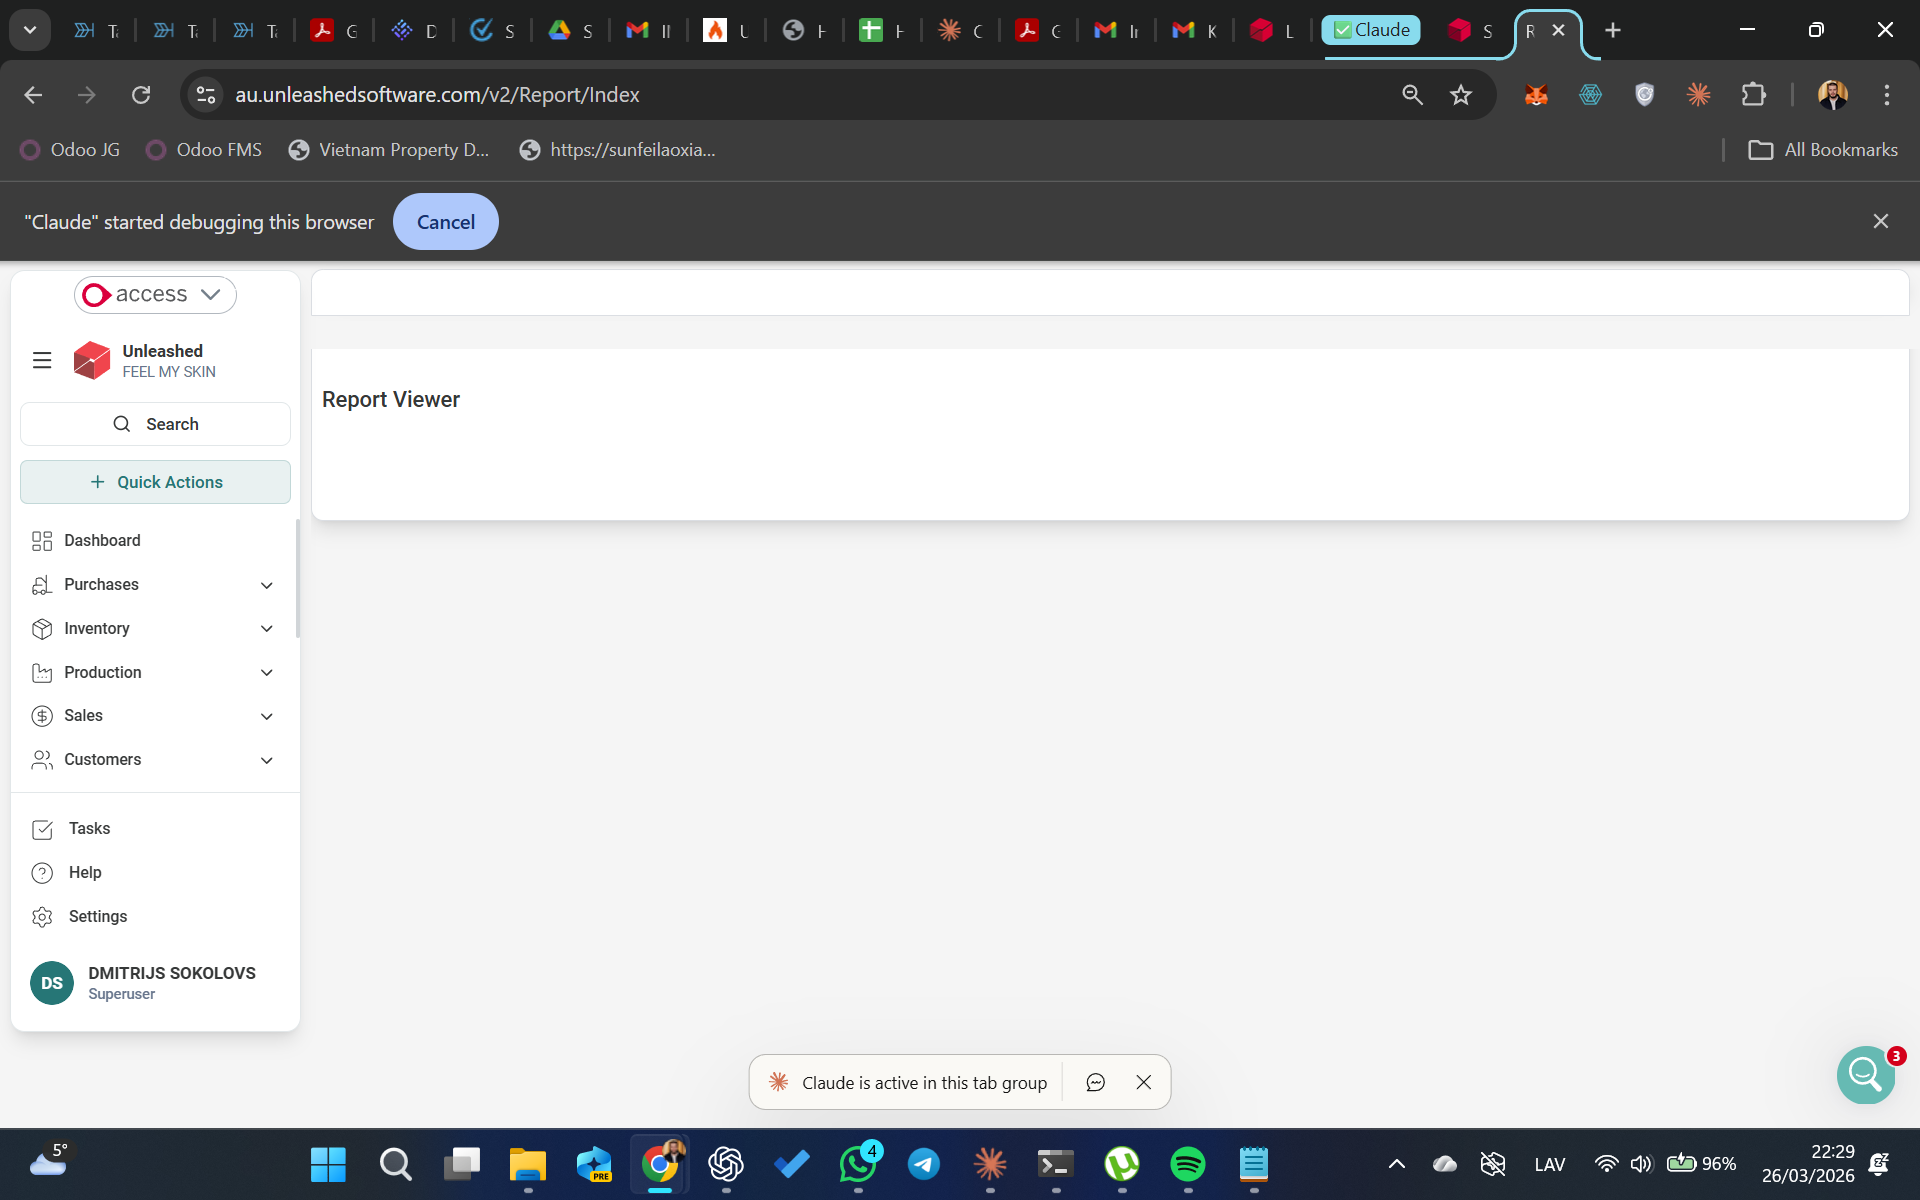
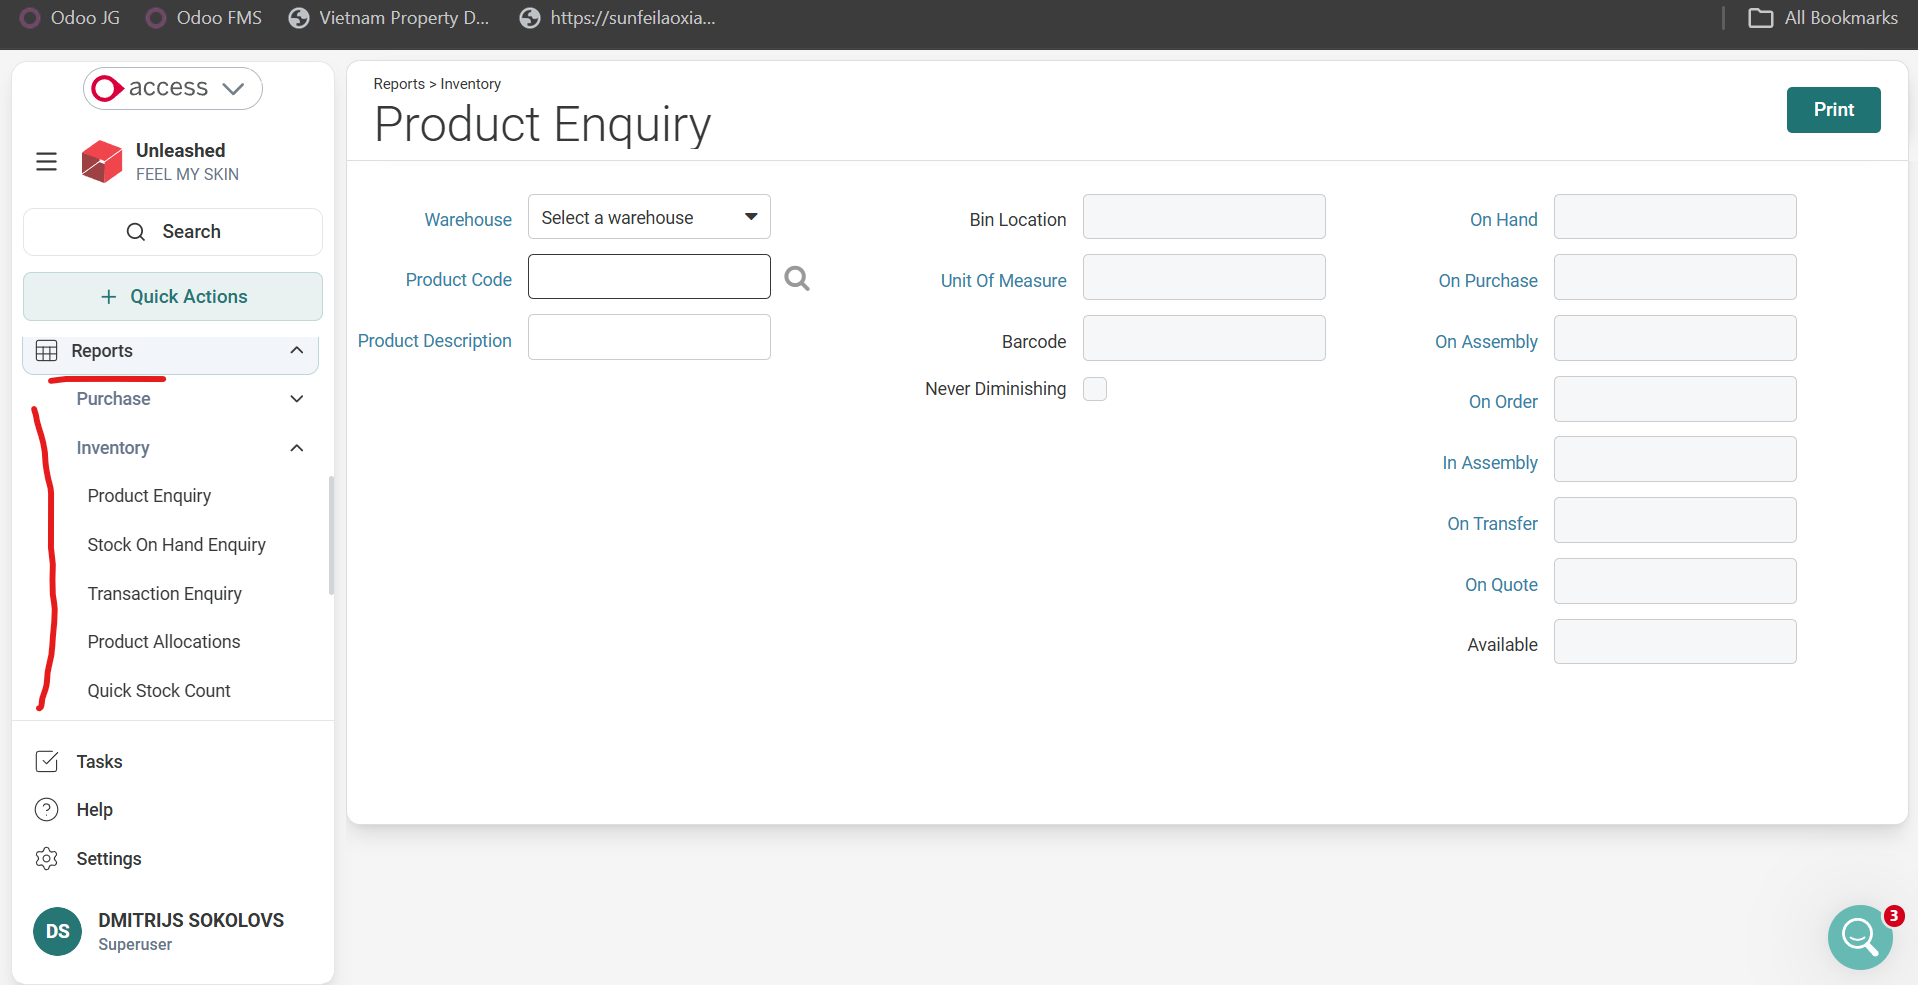
Fix: update report screenshot + remove misplaced dashboard screenshot

diff --git a/index.html b/index.html
@@ -2119,10 +2119,7 @@
                         </tr>
                     </table>
 
-                    <div class="screenshot">
-                        <img src="images/01_dashboard.png" alt="Règles critiques Summary" class="clickable-img">
-                        <div class="screenshot-caption">Résumé des règles critiques</div>
-                    </div>
+                    
                 </div>
             </section>
 
